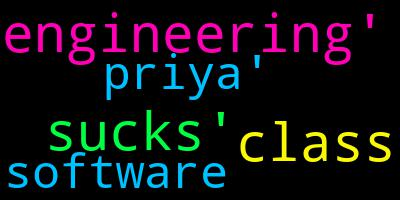
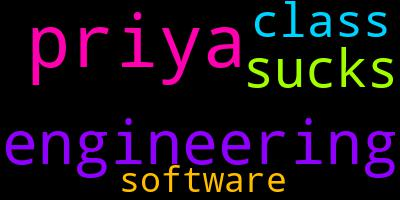
..

diff --git a/TeamAuth/Servers/Keyword Extraction/cloud.py b/TeamAuth/Servers/Keyword Extraction/cloud.py
@@ -1,9 +1,8 @@
 from os import path
 from wordcloud import WordCloud
 import matplotlib.pyplot as plt
-from base64 import b64decode, b64encode
 
-text = open(path.join('samplecloud.txt')).read()
+text = open(path.join('samplephrases.txt')).read()
 
 wordcloud = WordCloud().generate(text)
 

diff --git a/TeamAuth/Servers/Keyword Extraction/phrases.py b/TeamAuth/Servers/Keyword Extraction/phrases.py
@@ -8,4 +8,6 @@ r = Rake()
 r.extract_keywords_from_text(open(path.join(sys.argv[1])).read())
 
 #To get keyword phrases ranked highest to lowest
-print(r.get_ranked_phrases())
+#print(r.get_ranked_phrases())
+for phrase in r.get_ranked_phrases():
+    print(phrase)
